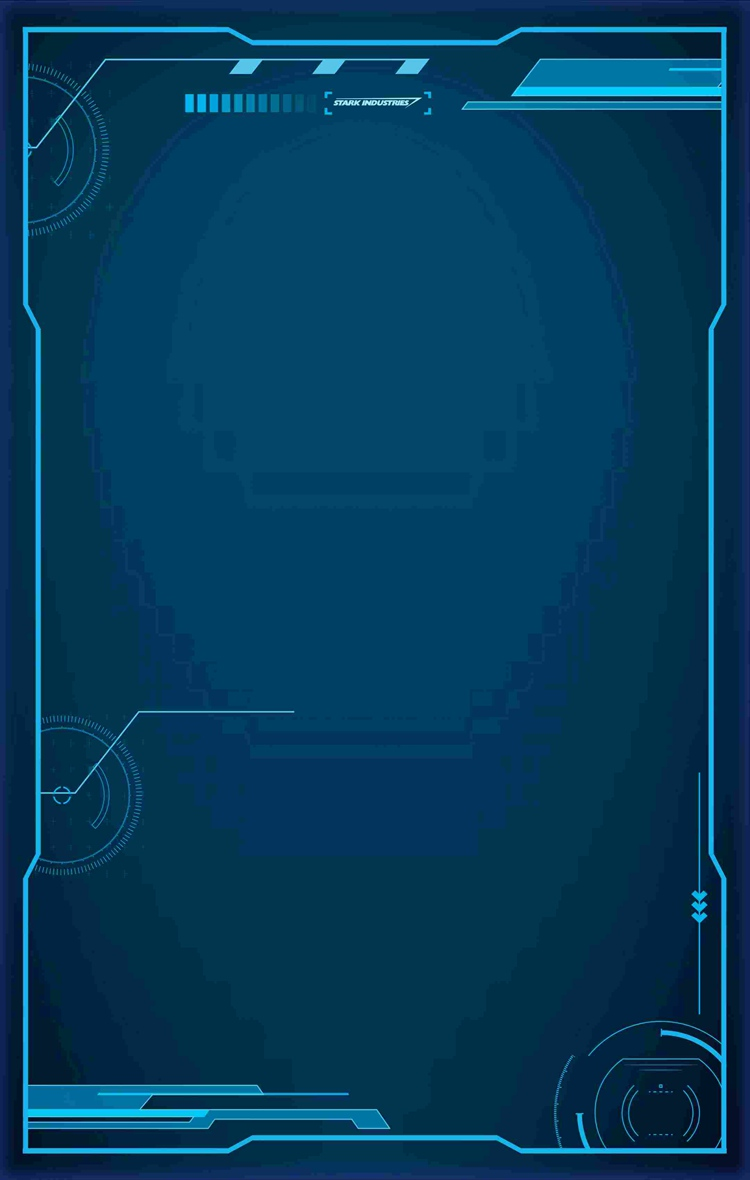
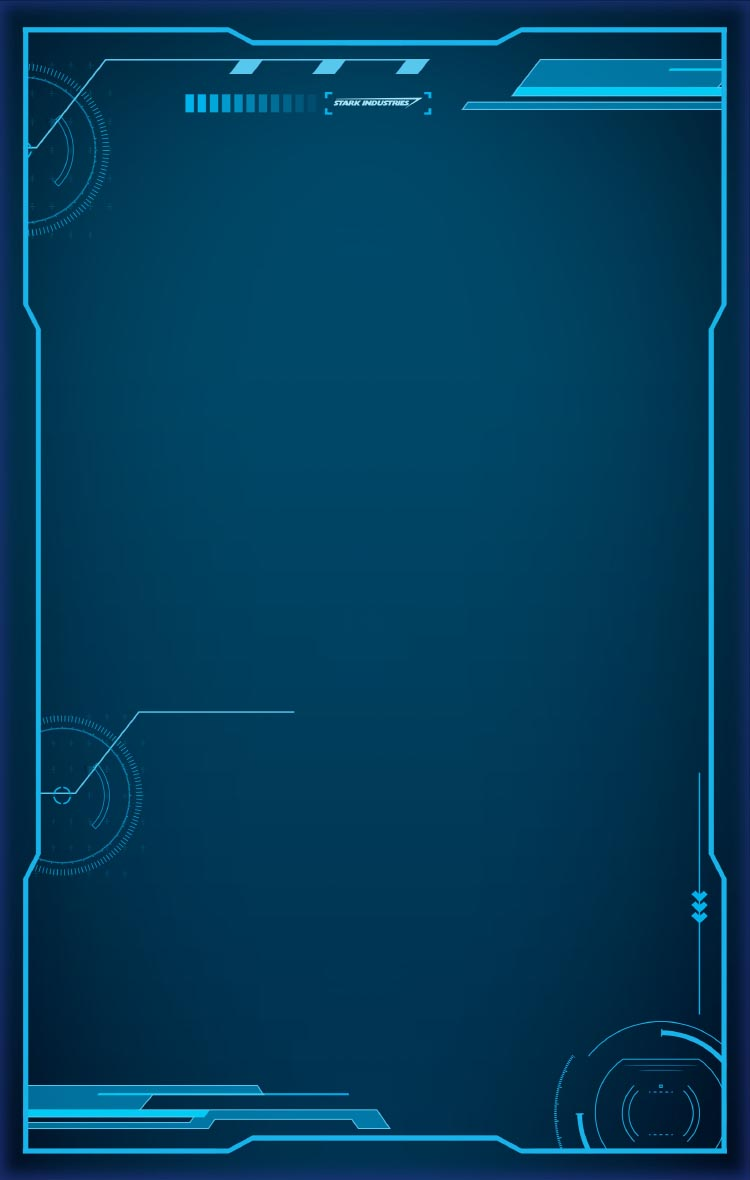
替换第二页背景图和去掉音乐及图标

diff --git a/src/views/index.vue b/src/views/index.vue
@@ -17,7 +17,7 @@
             <page7></page7>
         </div>
     </div>
-    <music></music>
+    <!-- <music></music> -->
 
 </template>
 <script type="text/javascript">
@@ -27,7 +27,7 @@
     import util from "util/pages";
     import * as getters from 'data/getters';
     import Loading from "components/loading";
-    import Music from "components/music";
+    // import Music from "components/music";
     import Page1 from "components/page1";
     import Page2 from "components/page2";
     import Page3 from "components/page3";
@@ -46,7 +46,7 @@
         },
         components: {
             Loading,
-            Music,
+            // Music,
             Page1,
             Page2,
             Page3,
